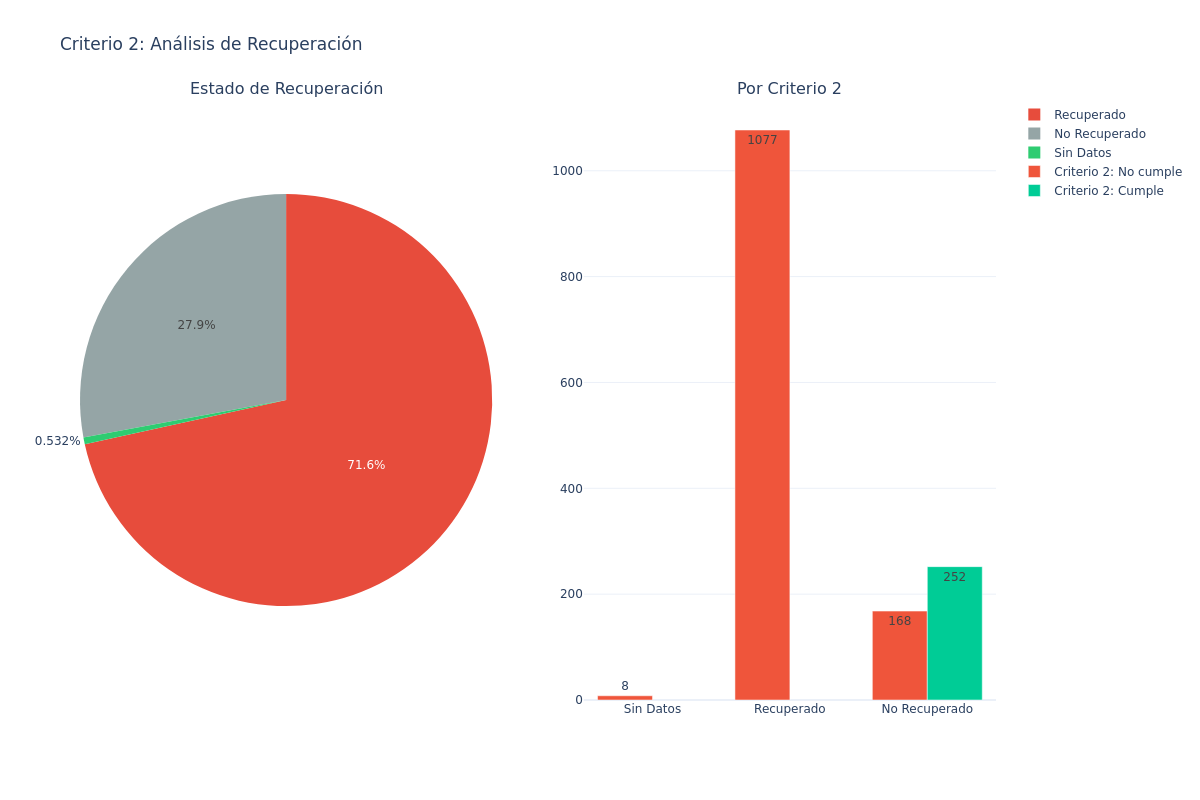
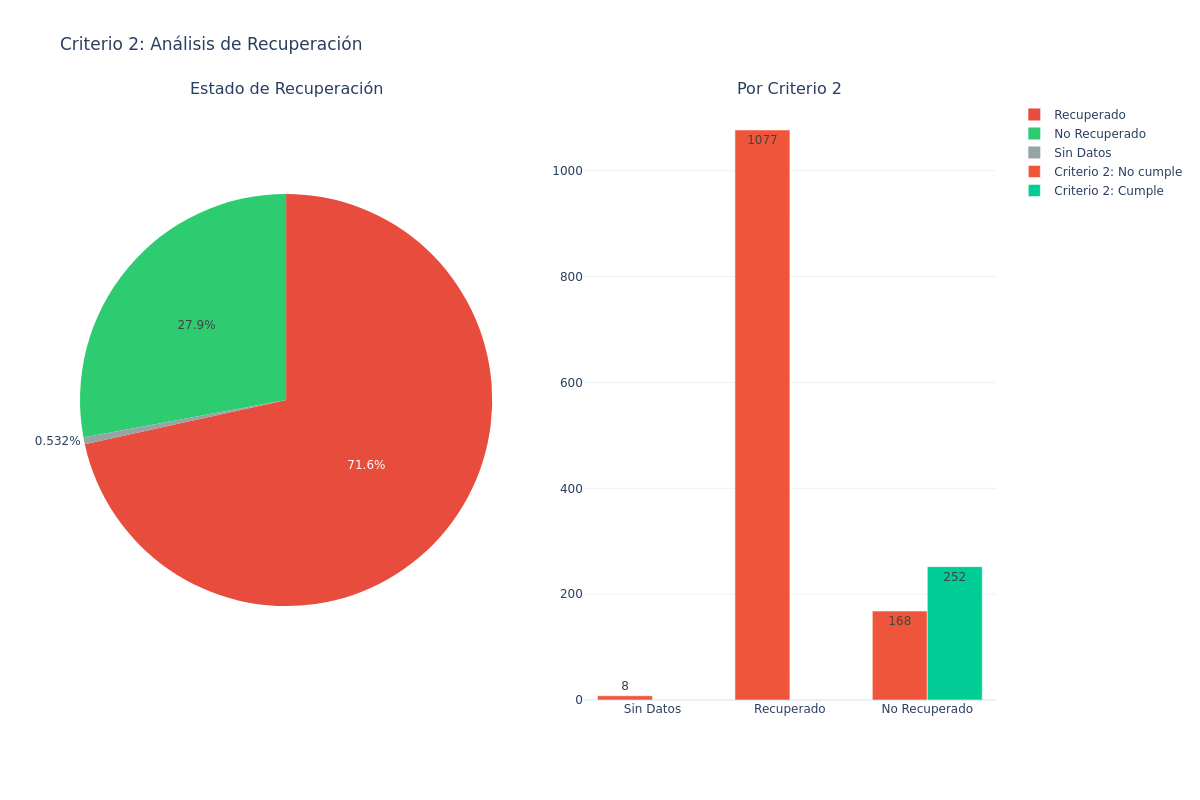
up

Changed region(s): [[0.0617, 0.2188, 0.2467, 0.5625], [0.8325, 0.1562, 0.8633, 0.1875]]

diff --git a/generate_pdf_reports.py b/generate_pdf_reports.py
@@ -544,6 +544,36 @@ Eje X: Semana epidemiológica | Eje Y: Clusters sintomáticos
         """
     })
     
+    # CLUSTERS INDIVIDUALES BY WEEK
+    reports.append({
+        'function': plot_clusters_individuales_by_week,
+        'args': (df_con_criterios,),
+        'title': 'Clusters Individuales por Semana Epidemiológica',
+        'interpretation': """
+**Gráfico de barras apilado por fecha de diagnóstico (semana epidemiológica) coloreado por clusters de Long COVID**
+
+**Clusters incluidos:**
+- 🟣 Cognitivo: Problemas de memoria, concentración, niebla mental
+- 🟠 Gastrointestinal: Náuseas, dolor abdominal, diarrea
+- 🔴 Muscular: Dolor muscular, debilidad, pesadez de piernas
+- 🟡 Olfato/Gusto: Anosmia, ageusia, cambios sensoriales
+- 🔵 Respiratorio: Disnea, tos persistente, dificultad respiratoria
+- 🟢 Vía Aérea: Congestión nasal, dolor de garganta, voz ronca
+
+**Hallazgos clave:**
+- Cada barra representa el total de pacientes diagnosticados esa semana
+- Los colores muestran qué clusters de síntomas presentaban
+- Un paciente puede pertenecer a múltiples clusters simultáneamente
+- Permite identificar fenotipos predominantes en diferentes períodos temporales
+
+**Implicaciones clínicas:**
+- Identificación de subgrupos sintomáticos para intervenciones específicas
+- Estratificación de pacientes según fenotipos clínicos
+- Vigilancia de cambios en presentación clínica a lo largo del tiempo
+- Útil para diseño de protocolos de seguimiento diferenciados por fenotipo
+        """
+    })
+    
     # HEATMAP DEMOGRÁFICO
     reports.append({
         'function': plot_demographic_clinical_heatmap,
